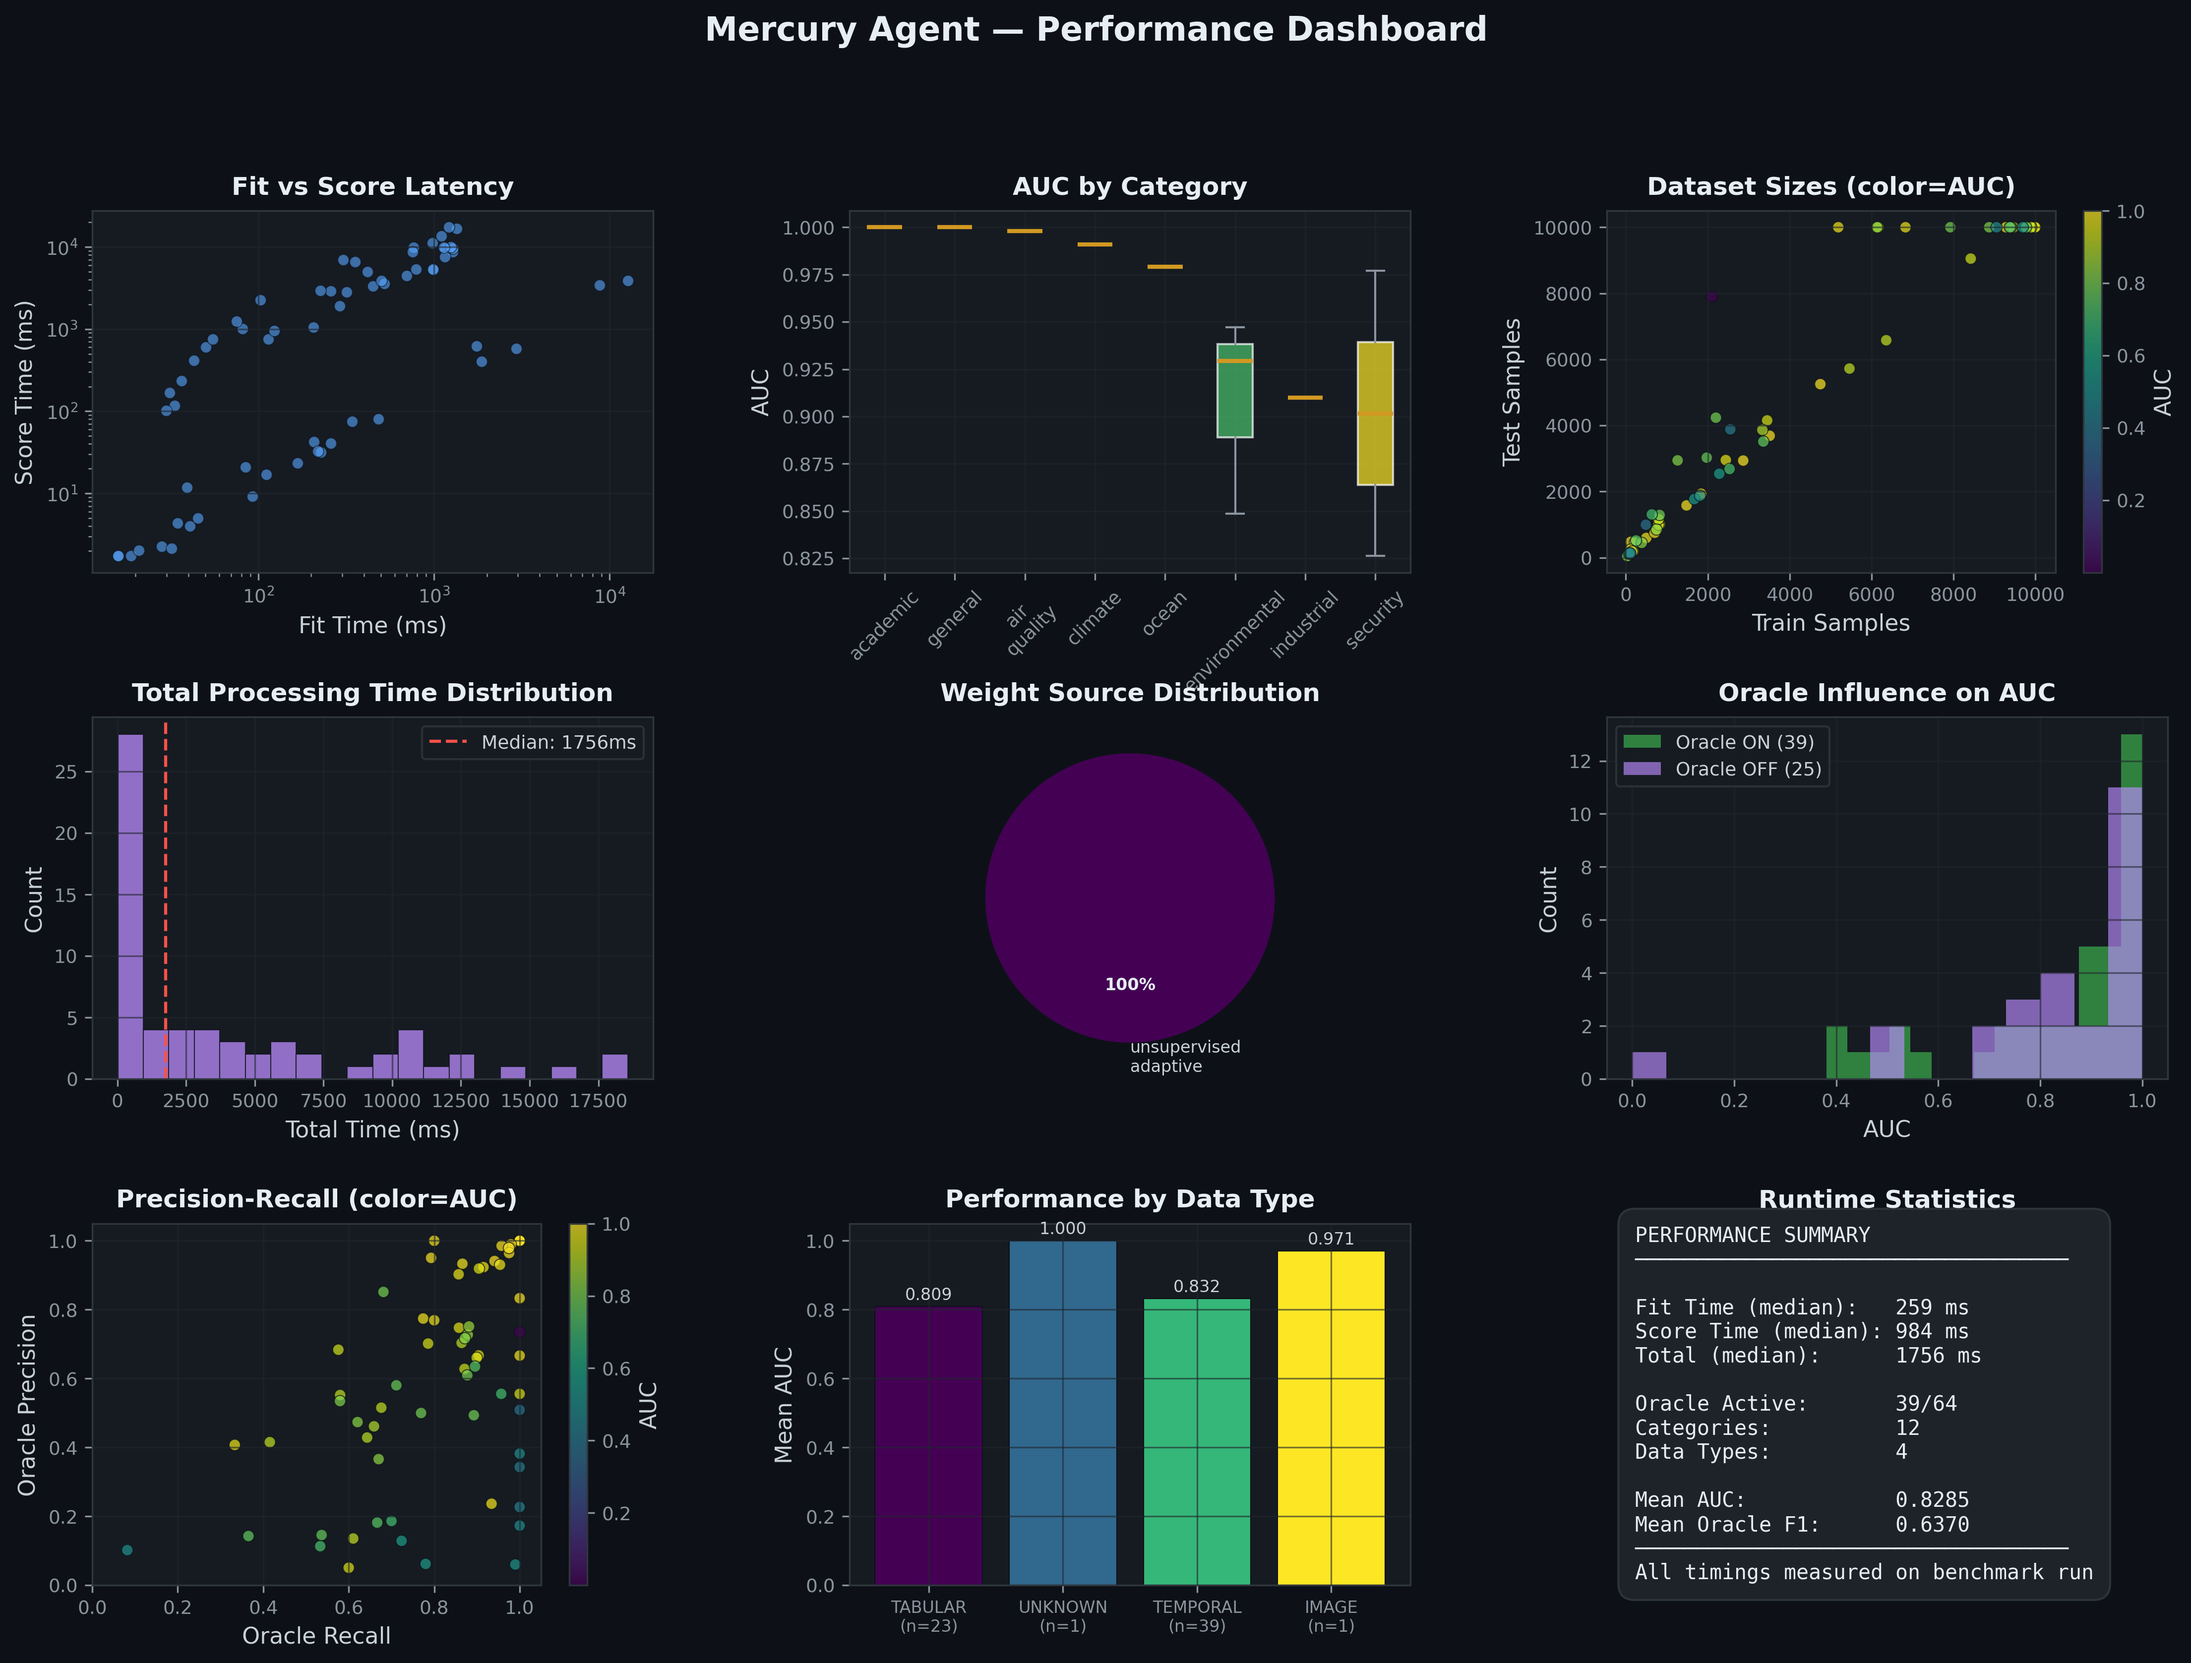
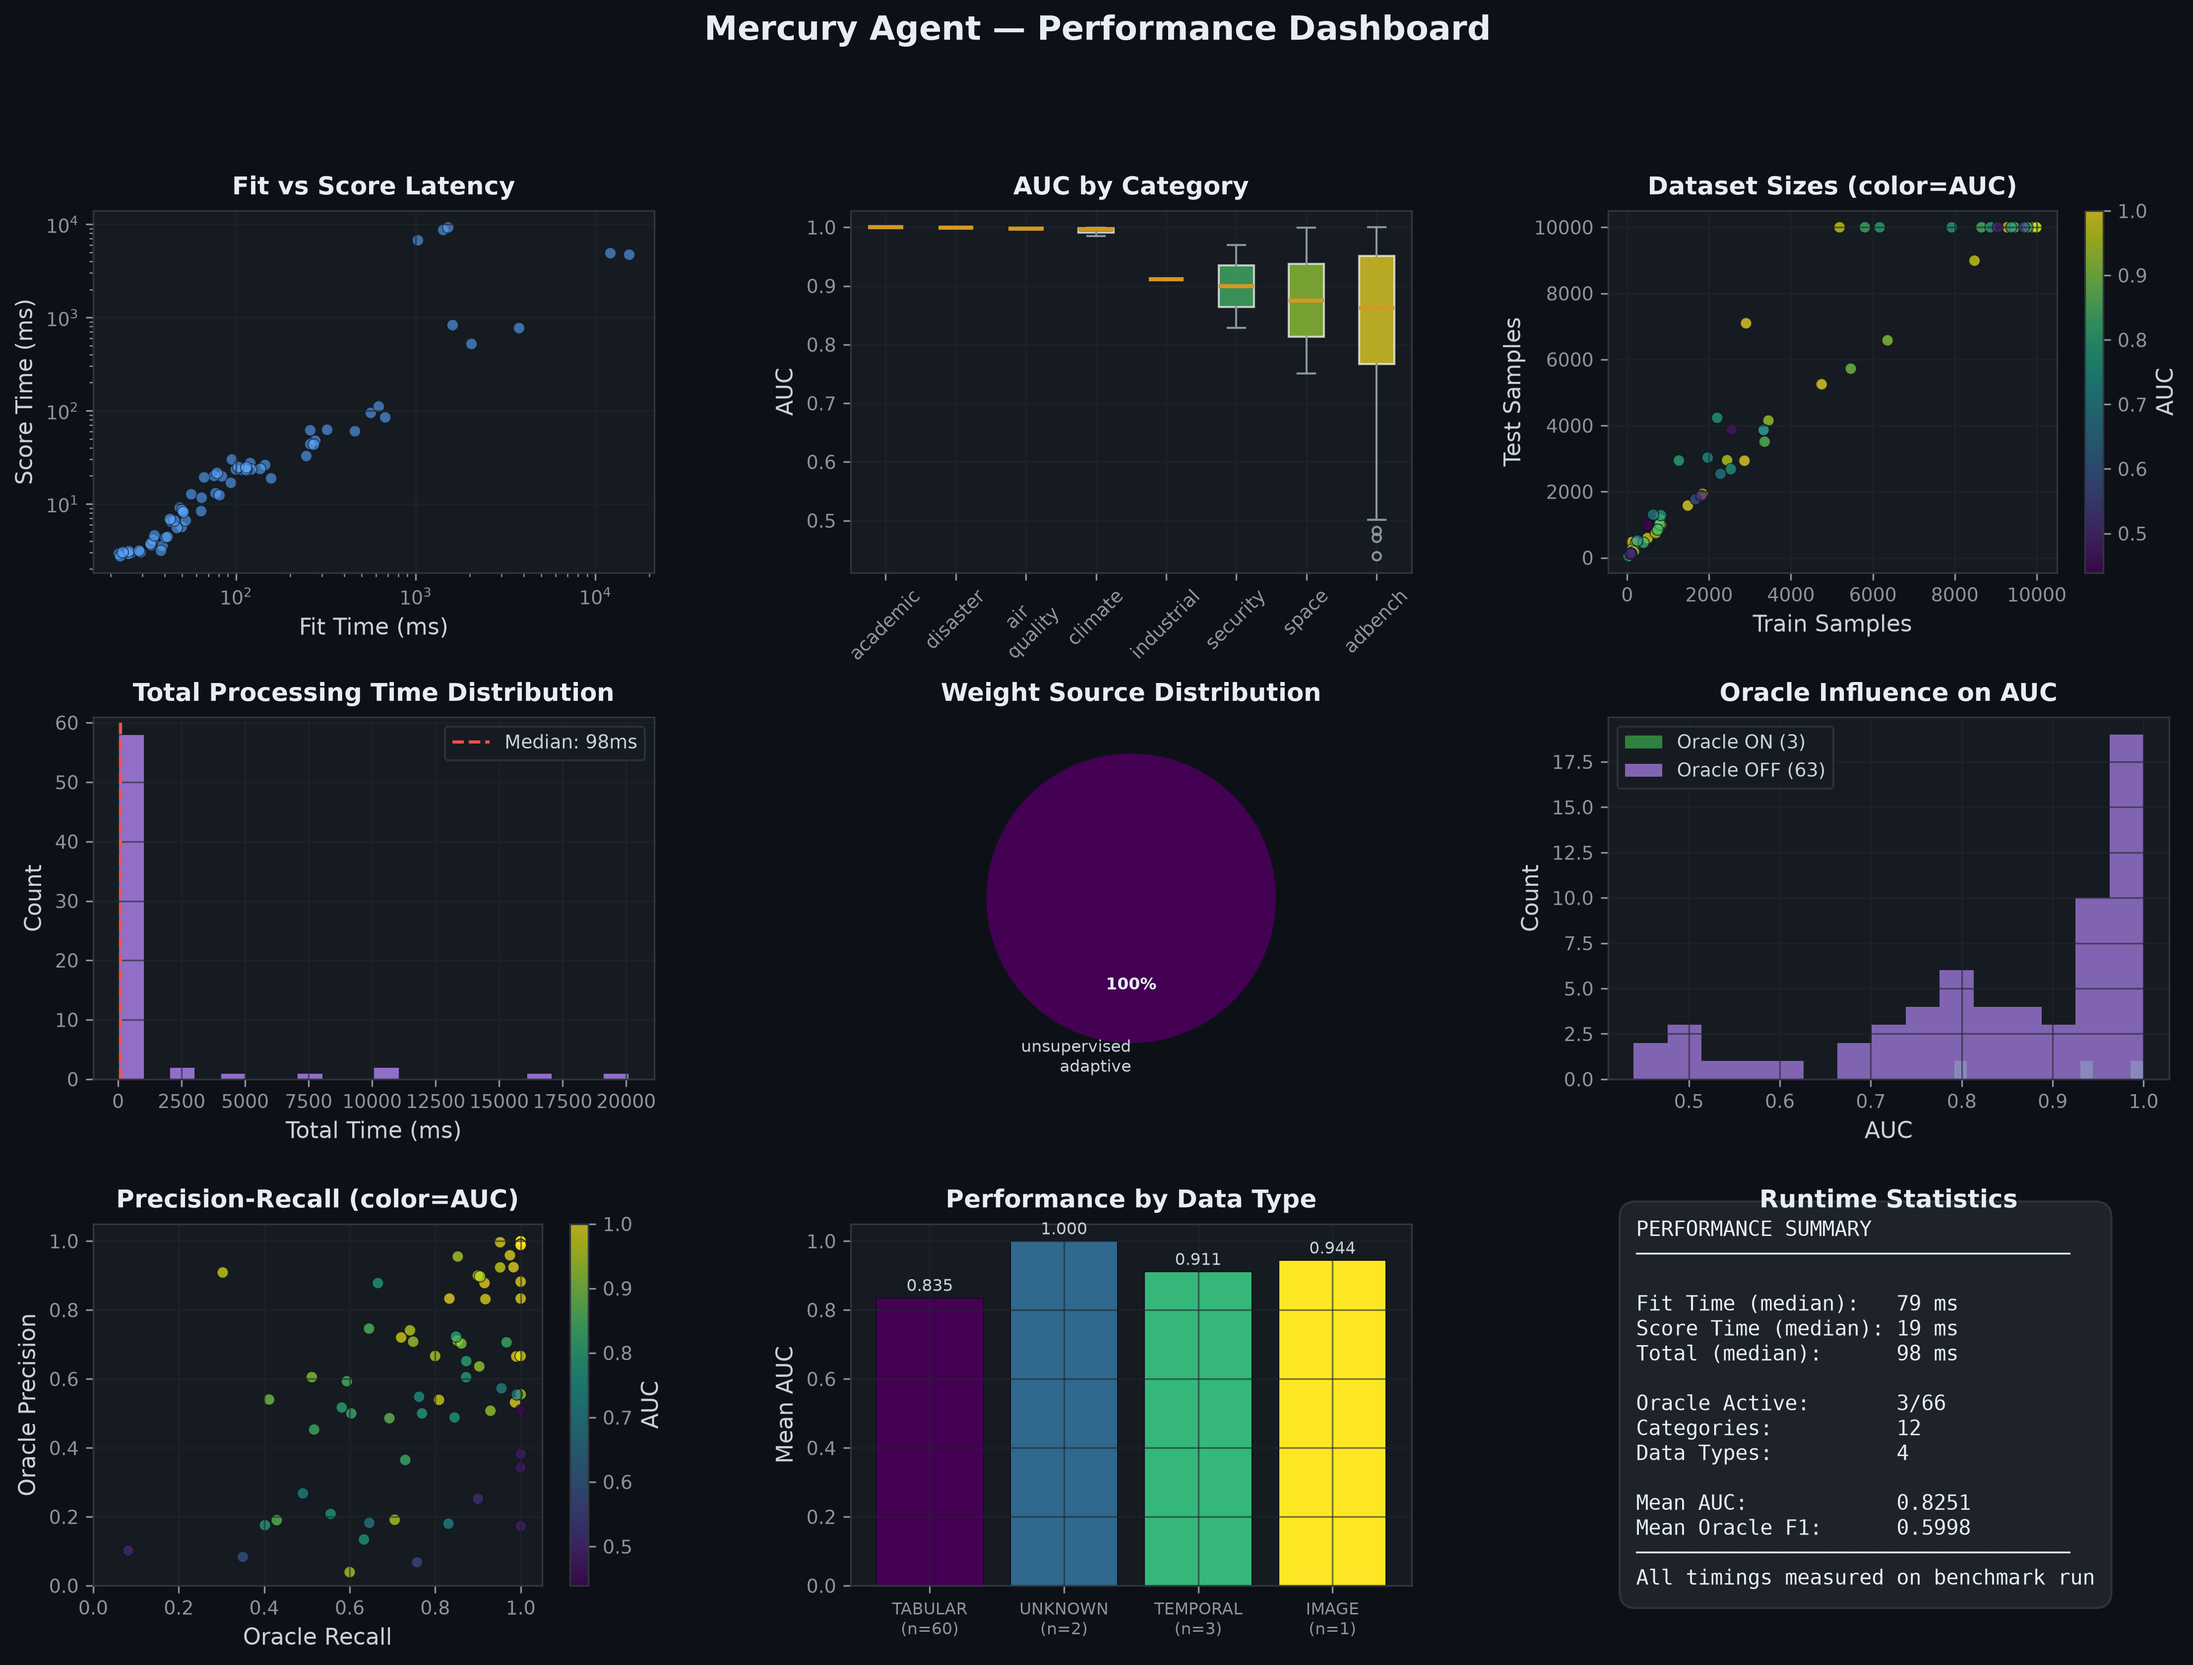
fix(viz): repair the benchmark image generator and regenerate the 5 stale panels
The benchmark panels in the README were stale (an old 64-dataset run) because
`benchmarks/generate_benchmark_visuals.py` crashed on the pinned matplotlib
(`matplotlib>=3.10.9`): it called `Axes.boxplot(labels=...)`, which was renamed
to `tick_labels=` in 3.9 and removed in 3.11. Nobody could regenerate the images.

- Fixed the two `boxplot(labels=)` call sites -> `tick_labels=` (the `pie(labels=)`
  site is unaffected and left as-is). Generator now runs clean on matplotlib 3.11.
- Regenerated the five benchmark-derived panels from the current committed
  `mercury_benchmark_results.json` (2026-06-21; Mean AUC 0.8251 over 66 successful
  datasets): neuro_symbolic_benchmark_report, anomaly_detection_panel,
  mercury_performance_dashboard, benchmark_summary_live_data,
  adaptive_weight_distribution.
- calibration_improvement.png is left untouched: it visualizes the separate
  MD-011/MD-005 calibration-validation run (52 datasets) whose numbers the README
  calibration table cites; re-running it in-sandbox would desync it from those
  committed canonical figures.
- Updated the README "Visual proof" caption to state the panels are generated
  from the current committed run (was incorrectly labeled an "earlier 2026-03-04"
  run).

Claude-Session: https://claude.ai/code/session_01XTYyke3komYWZAvL85584F

diff --git a/benchmarks/generate_benchmark_visuals.py b/benchmarks/generate_benchmark_visuals.py
@@ -173,7 +173,7 @@ def generate_neuro_symbolic_report(data: dict[str, Any]) -> None:
     }
     bp = ax2.boxplot(
         comp_data.values(),
-        labels=comp_data.keys(),
+        tick_labels=comp_data.keys(),
         patch_artist=True,
         boxprops=dict(linewidth=0.5),
         whiskerprops=dict(color="#8b949e"),
@@ -589,7 +589,7 @@ def generate_performance_dashboard(data: dict[str, Any]) -> None:
     cat_data = [c[1] for c in sorted_cats[:8]]
     bp = ax2.boxplot(
         cat_data,
-        labels=[n.replace("_", "\n") for n in cat_names],
+        tick_labels=[n.replace("_", "\n") for n in cat_names],
         patch_artist=True,
         whiskerprops=dict(color="#8b949e"),
         capprops=dict(color="#8b949e"),

diff --git a/README.md b/README.md
@@ -317,9 +317,11 @@ AUC (ensemble inversion on high-dimensional data); no tuning was performed.
 
 ### Visual proof
 
-Panels visualize an **earlier** committed run (2026-03-04; Mean AUC 0.8285 over
-64 datasets), retained as illustrative — the current headline is the *Latest
-Benchmark Results* block at the top.
+The benchmark panels below are generated from the current committed
+`mercury_benchmark_results.json` run (2026-06-21; Mean AUC 0.8251 over 66
+successful datasets) by `benchmarks/generate_benchmark_visuals.py`; the
+calibration panel comes from the MD-011/MD-005 calibration-validation run
+(52 datasets).
 
 *Neuro-symbolic report — AUC/F1 distributions, component boxplots, domain performance, dataset rankings:*
 ![Neuro-Symbolic Benchmark Report](docs/images/neuro_symbolic_benchmark_report.png)
